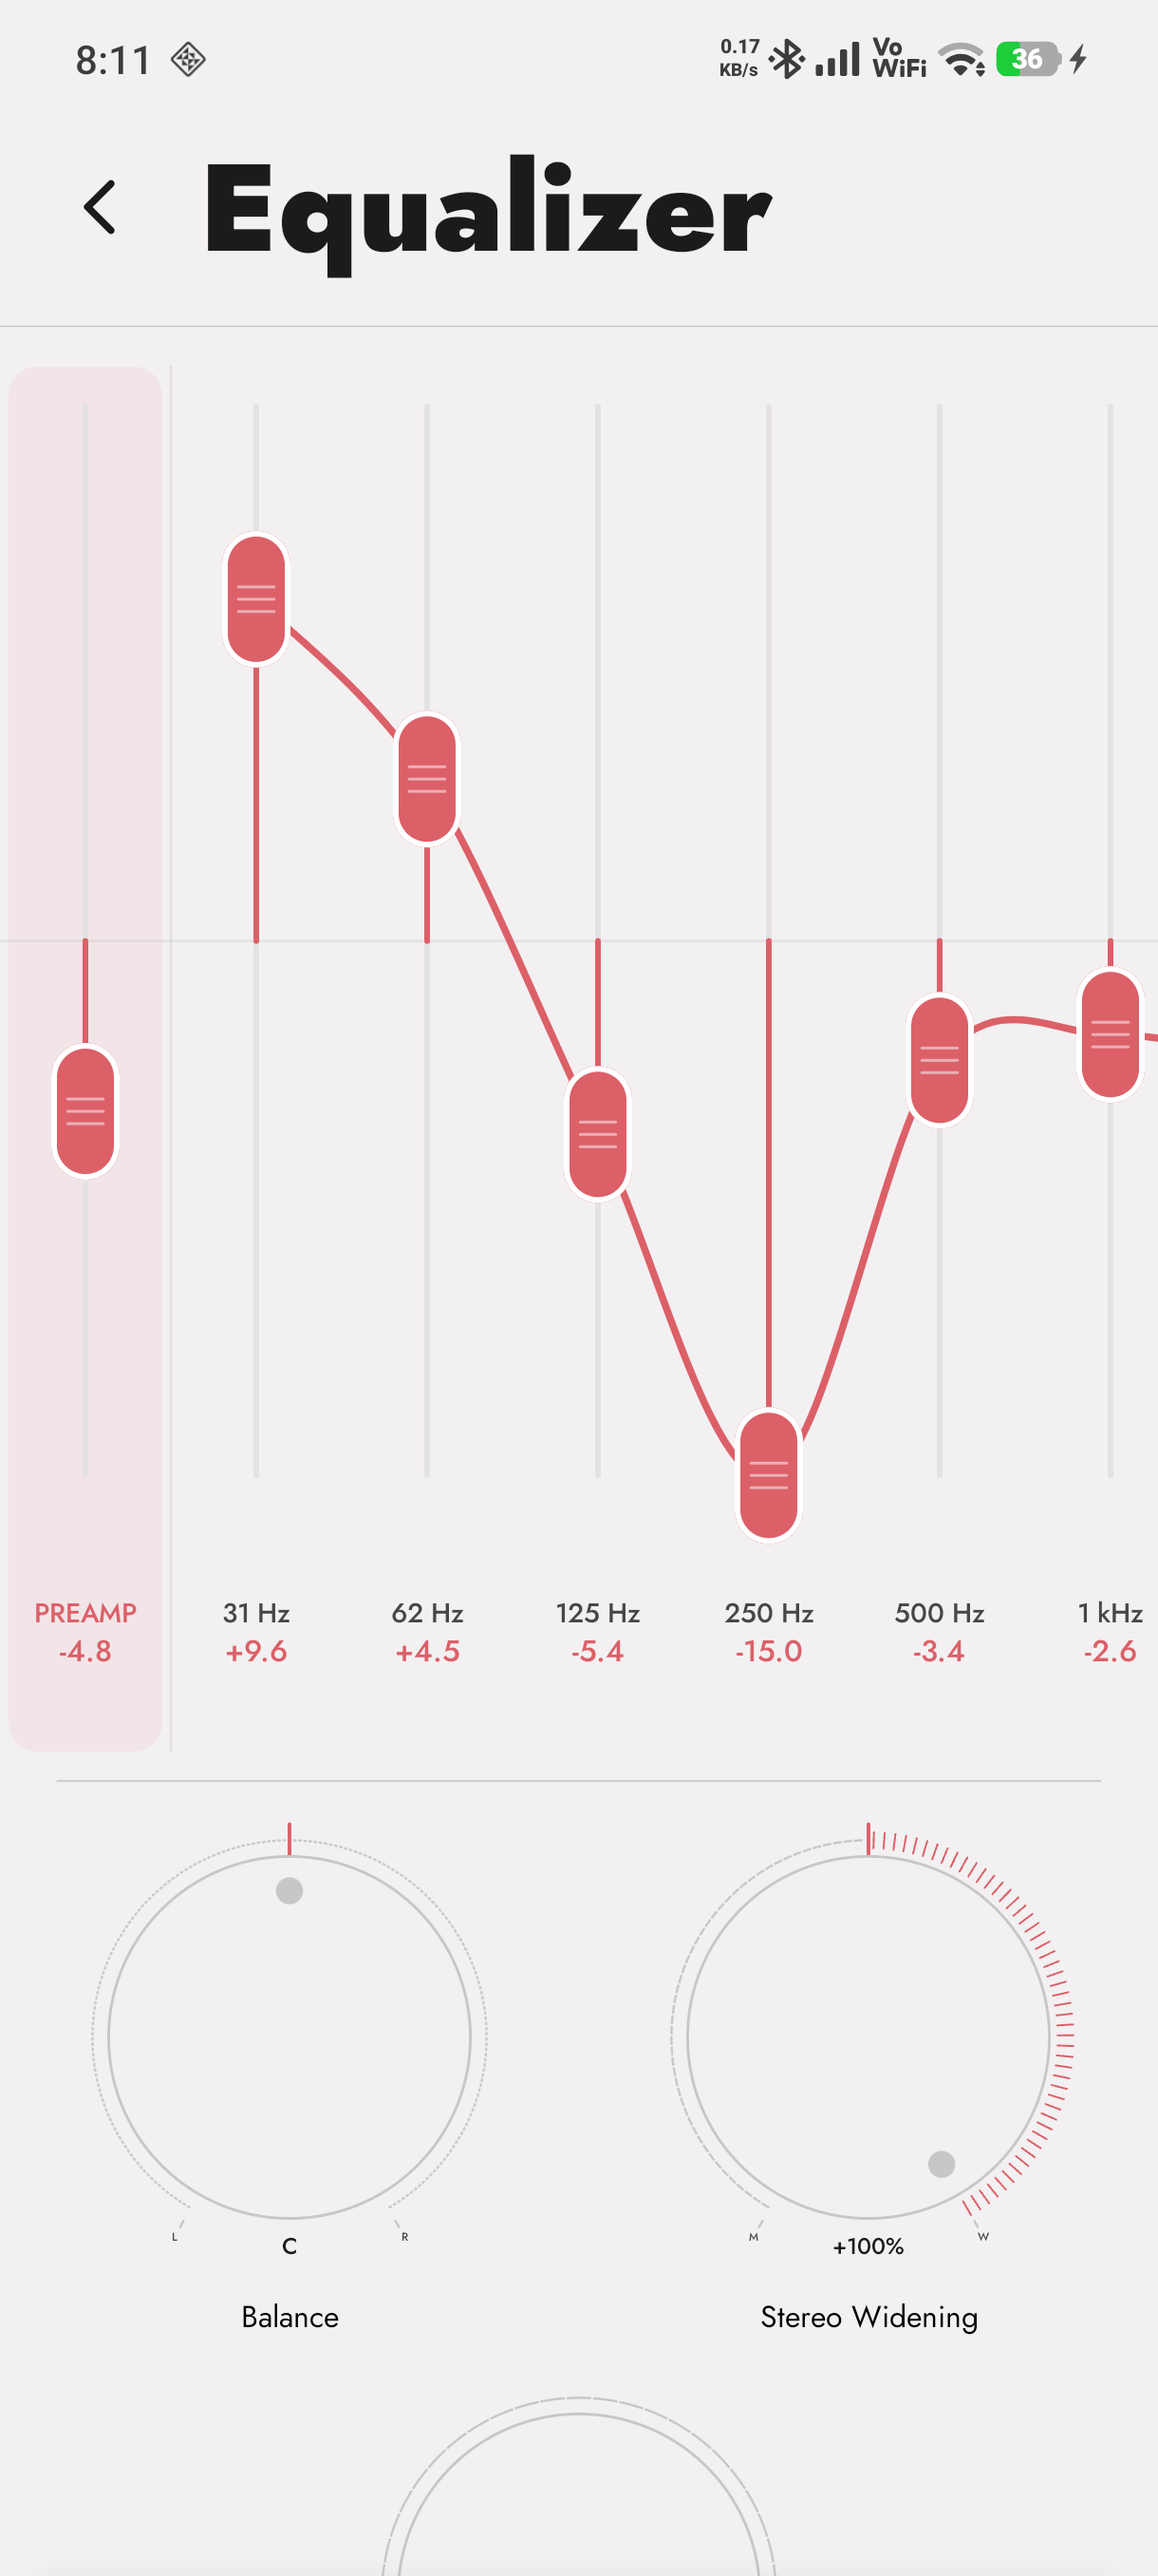
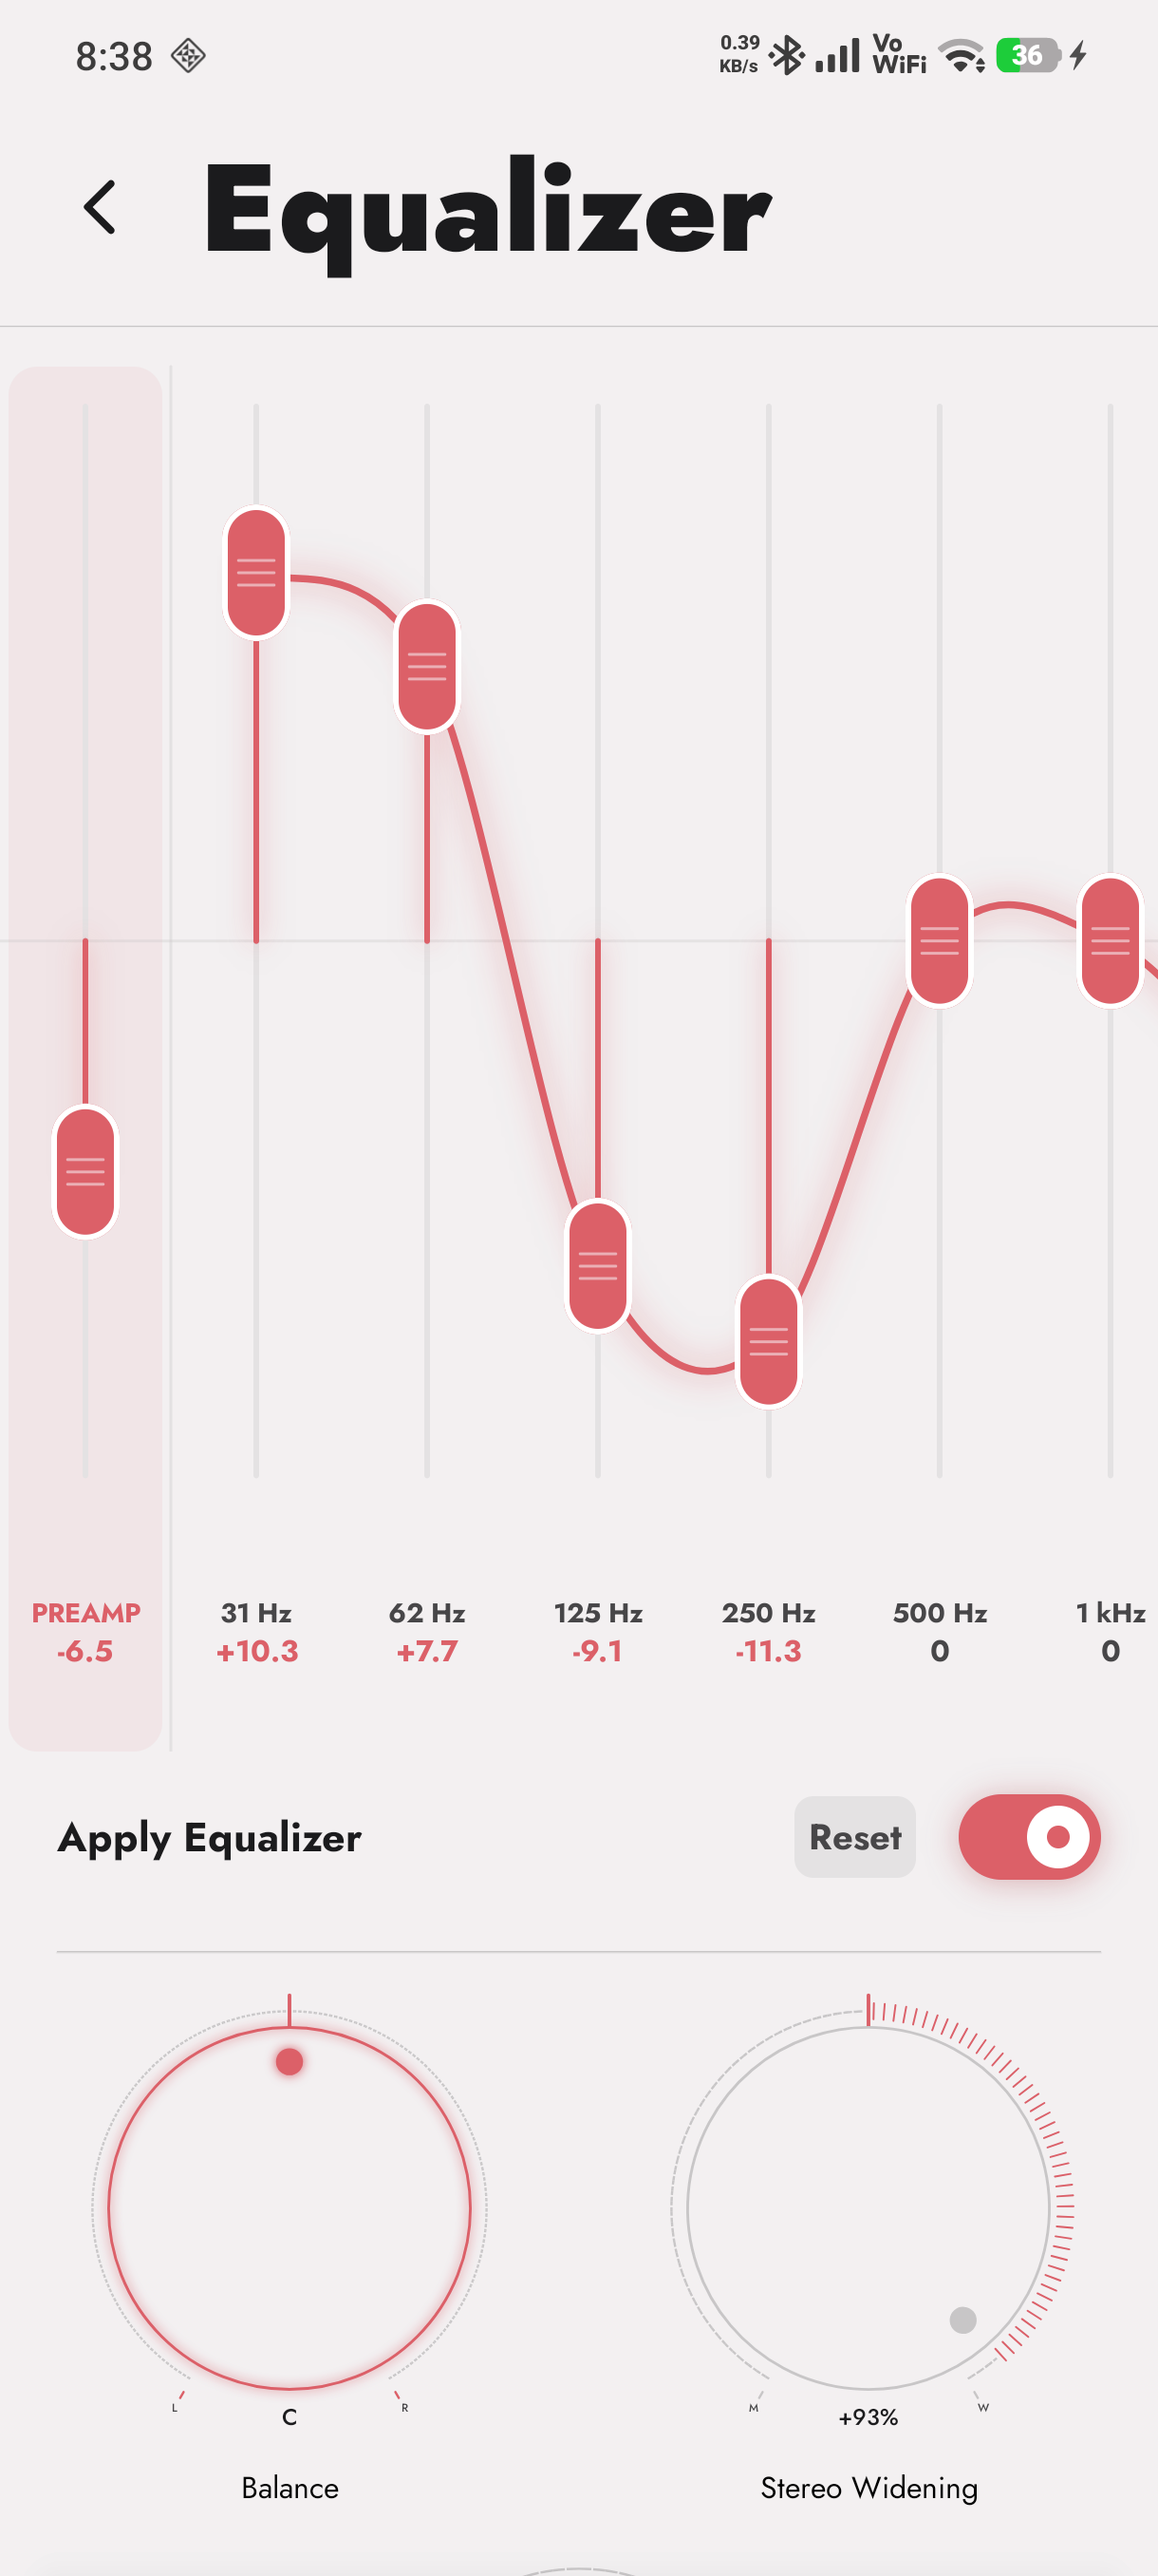
feat(equalizer): add equalizer switch and reset functionality

diff --git a/decorations/src/main/java/app/simple/felicity/decorations/seekbars/FelicityEqualizerSliders.kt b/decorations/src/main/java/app/simple/felicity/decorations/seekbars/FelicityEqualizerSliders.kt
@@ -290,28 +290,12 @@ class FelicityEqualizerSliders @JvmOverloads constructor(
         style = Paint.Style.STROKE; strokeCap = Paint.Cap.ROUND; strokeJoin = Paint.Join.ROUND
     }
 
-    /**
-     * Pseudo-glow paint for the Bézier curve. Drawn as a wider, semi-transparent stroke
-     * before the main curve. No [android.graphics.BlurMaskFilter] is used so the view
-     * stays on the hardware-accelerated layer and avoids per-frame software rasterization.
-     */
-    private val bezierGlowPaint = Paint(Paint.ANTI_ALIAS_FLAG).apply {
-        style = Paint.Style.STROKE; strokeCap = Paint.Cap.ROUND; strokeJoin = Paint.Join.ROUND
-    }
-
     private val thumbInnerPaint = Paint(Paint.ANTI_ALIAS_FLAG).apply { style = Paint.Style.FILL }
     private val thumbRingPaint = Paint(Paint.ANTI_ALIAS_FLAG).apply { style = Paint.Style.STROKE }
     private val gripLinePaint = Paint(Paint.ANTI_ALIAS_FLAG).apply {
         style = Paint.Style.STROKE; strokeCap = Paint.Cap.ROUND
     }
     private val trackProgressPaint = Paint(Paint.ANTI_ALIAS_FLAG).apply {
-        style = Paint.Style.STROKE; strokeCap = Paint.Cap.ROUND
-    }
-
-    /**
-     * Pseudo-glow for the track progress segment. Wider + alpha, no blur.
-     */
-    private val trackGlowPaint = Paint(Paint.ANTI_ALIAS_FLAG).apply {
         style = Paint.Style.STROKE; strokeCap = Paint.Cap.ROUND
     }
 
@@ -378,7 +362,6 @@ class FelicityEqualizerSliders @JvmOverloads constructor(
         bezierPaint.color = bezierColor
         bezierPaint.strokeWidth = bezierStrokePx
 
-        bezierGlowPaint.color = bezierColor
 
         thumbInnerPaint.color = thumbInnerColor
         thumbRingPaint.color = thumbRingColor
@@ -391,7 +374,6 @@ class FelicityEqualizerSliders @JvmOverloads constructor(
         trackProgressPaint.color = accentColor
         trackProgressPaint.strokeWidth = trackStrokePx
 
-        trackGlowPaint.color = accentColor
 
         pressRingPaint.color = accentColor
         pressRingPaint.strokeWidth = 1.5f * d
@@ -413,33 +395,53 @@ class FelicityEqualizerSliders @JvmOverloads constructor(
         separatorPaint.color = centerLineColor
         separatorPaint.strokeWidth = 1f * d
         separatorPaint.alpha = 90
+
+        // Re-apply shadow layers so the glow color tracks accent/theme changes.
+        applyShadowLayers()
     }
 
     private fun setupTextPaints() {
         if (!isInEditMode) {
-            val tf = TypeFace.getMediumTypeFace(context)
+            val tf = TypeFace.getBoldTypeFace(context)
             freqTextPaint.typeface = tf
             valueTextPaint.typeface = tf
         }
     }
 
     /**
-     * Configures the pseudo-glow paints.
+     * Applies or removes GPU shadow layers on [bezierPaint] and [trackProgressPaint].
      *
-     * The glow is rendered as a wider, semi-transparent stroke drawn before the main
-     * crisp stroke. This avoids [android.graphics.BlurMaskFilter] which forces software
-     * rasterization and causes frame stutter on complex views.
+     * [Paint.setShadowLayer] is composited on the GPU by the HWUI RenderThread pipeline
+     * (API 28+) without requiring [LAYER_TYPE_SOFTWARE], so the view stays hardware
+     * accelerated and renders at full frame rate. The shadow radius and color are
+     * derived from the current accent color so the glow always matches the UI theme.
+     *
+     * Called from [updateShadowEffect] when the preference changes and from
+     * [applyPaintColors] whenever the accent or theme colors are updated.
+     */
+    private fun applyShadowLayers() {
+        if (shadowEffectEnabled) {
+            val r = Color.red(bezierColor)
+            val g = Color.green(bezierColor)
+            val b = Color.blue(bezierColor)
+            val glowColor = Color.argb(200, r, g, b)
+            val progressGlowColor = Color.argb(160, r, g, b)
+
+            bezierPaint.setShadowLayer(10f * d, 0f, 0f, glowColor)
+            trackProgressPaint.setShadowLayer(8f * d, 0f, 0f, progressGlowColor)
+        } else {
+            bezierPaint.clearShadowLayer()
+            trackProgressPaint.clearShadowLayer()
+        }
+    }
+
+    /**
+     * Reads the shadow-effect preference, updates the shadow layers on the relevant
+     * paints, and ensures the view stays on the hardware-accelerated layer at all times.
      */
     private fun updateShadowEffect() {
         shadowEffectEnabled = AppearancePreferences.isShadowEffectOn()
-        if (shadowEffectEnabled) {
-            bezierGlowPaint.strokeWidth = bezierStrokePx * 5f
-            bezierGlowPaint.alpha = 40
-
-            trackGlowPaint.strokeWidth = trackStrokePx * 4.5f
-            trackGlowPaint.alpha = 55
-        }
-        // Always stay on the hardware layer regardless of shadow state.
+        applyShadowLayers()
         setLayerType(LAYER_TYPE_HARDWARE, null)
         invalidate()
     }
@@ -670,9 +672,6 @@ class FelicityEqualizerSliders @JvmOverloads constructor(
         val progressTop = minOf(zeroY, thumbY)
         val progressBottom = maxOf(zeroY, thumbY)
         if (progressBottom > progressTop) {
-            if (shadowEffectEnabled) {
-                canvas.drawLine(cx, progressTop, cx, progressBottom, trackGlowPaint)
-            }
             canvas.drawLine(cx, progressTop, cx, progressBottom, trackProgressPaint)
         }
 
@@ -715,8 +714,8 @@ class FelicityEqualizerSliders @JvmOverloads constructor(
 
     /**
      * Draws the Catmull-Rom spline connecting the 10 EQ-band thumbs (not the preamp).
-     * The glow pass is a wider semi-transparent stroke without any blur mask, keeping
-     * rendering on the hardware-accelerated layer at all times.
+     * The glow effect is applied via [Paint.setShadowLayer] directly on [bezierPaint],
+     * keeping rendering on the hardware-accelerated layer at all times.
      */
     private fun drawBezierCurve(canvas: Canvas) {
         bezierPath.reset()
@@ -735,9 +734,6 @@ class FelicityEqualizerSliders @JvmOverloads constructor(
             bezierPath.cubicTo(cp1x, cp1y, cp2x, cp2y, p2.first, p2.second)
         }
 
-        if (shadowEffectEnabled) {
-            canvas.drawPath(bezierPath, bezierGlowPaint)
-        }
         canvas.drawPath(bezierPath, bezierPaint)
     }
 

diff --git a/music/src/main/java/app/simple/felicity/ui/panels/Equalizer.kt b/music/src/main/java/app/simple/felicity/ui/panels/Equalizer.kt
@@ -43,6 +43,19 @@ class Equalizer : MediaFragment() {
         super.onViewCreated(view, savedInstanceState)
         requireHiddenMiniPlayer()
 
+        binding.equalizerSwitch.isChecked = EqualizerPreferences.isEqEnabled()
+
+        binding.equalizerSwitch.setOnCheckedChangeListener { _, isChecked ->
+            EqualizerPreferences.setEqEnabled(isChecked)
+        }
+
+        binding.reset.setOnClickListener {
+            withSureDialog {
+                EqualizerManager.resetAllBands()
+                EqualizerPreferences.setPreampDb(0f)
+            }
+        }
+
         binding.back.setOnClickListener {
             requireActivity().onBackPressedDispatcher.onBackPressed()
         }

diff --git a/music/src/main/java/app/simple/felicity/extensions/fragments/MediaFragment.kt b/music/src/main/java/app/simple/felicity/extensions/fragments/MediaFragment.kt
@@ -543,7 +543,7 @@ open class MediaFragment : ScopedFragment(), MiniPlayerPolicy {
             .show()
     }
 
-    protected fun showDeleteConfirmation(onResult: (Boolean) -> Unit) {
+    protected fun withSureDialog(onResult: (Boolean) -> Unit) {
         SimpleDialog.Builder(
                 container = requireContainerView(),
                 inflateBinding = DialogSureBinding::inflate)

diff --git a/music/src/main/java/app/simple/felicity/ui/panels/Lyrics.kt b/music/src/main/java/app/simple/felicity/ui/panels/Lyrics.kt
@@ -84,7 +84,7 @@ class Lyrics : MediaFragment() {
                 }
 
                 override fun onLyricsDelete() {
-                    showDeleteConfirmation {
+                    withSureDialog {
                         if (it) {
                             lyricsViewModel.deleteLrc {
                                 binding.lrc.reset()
